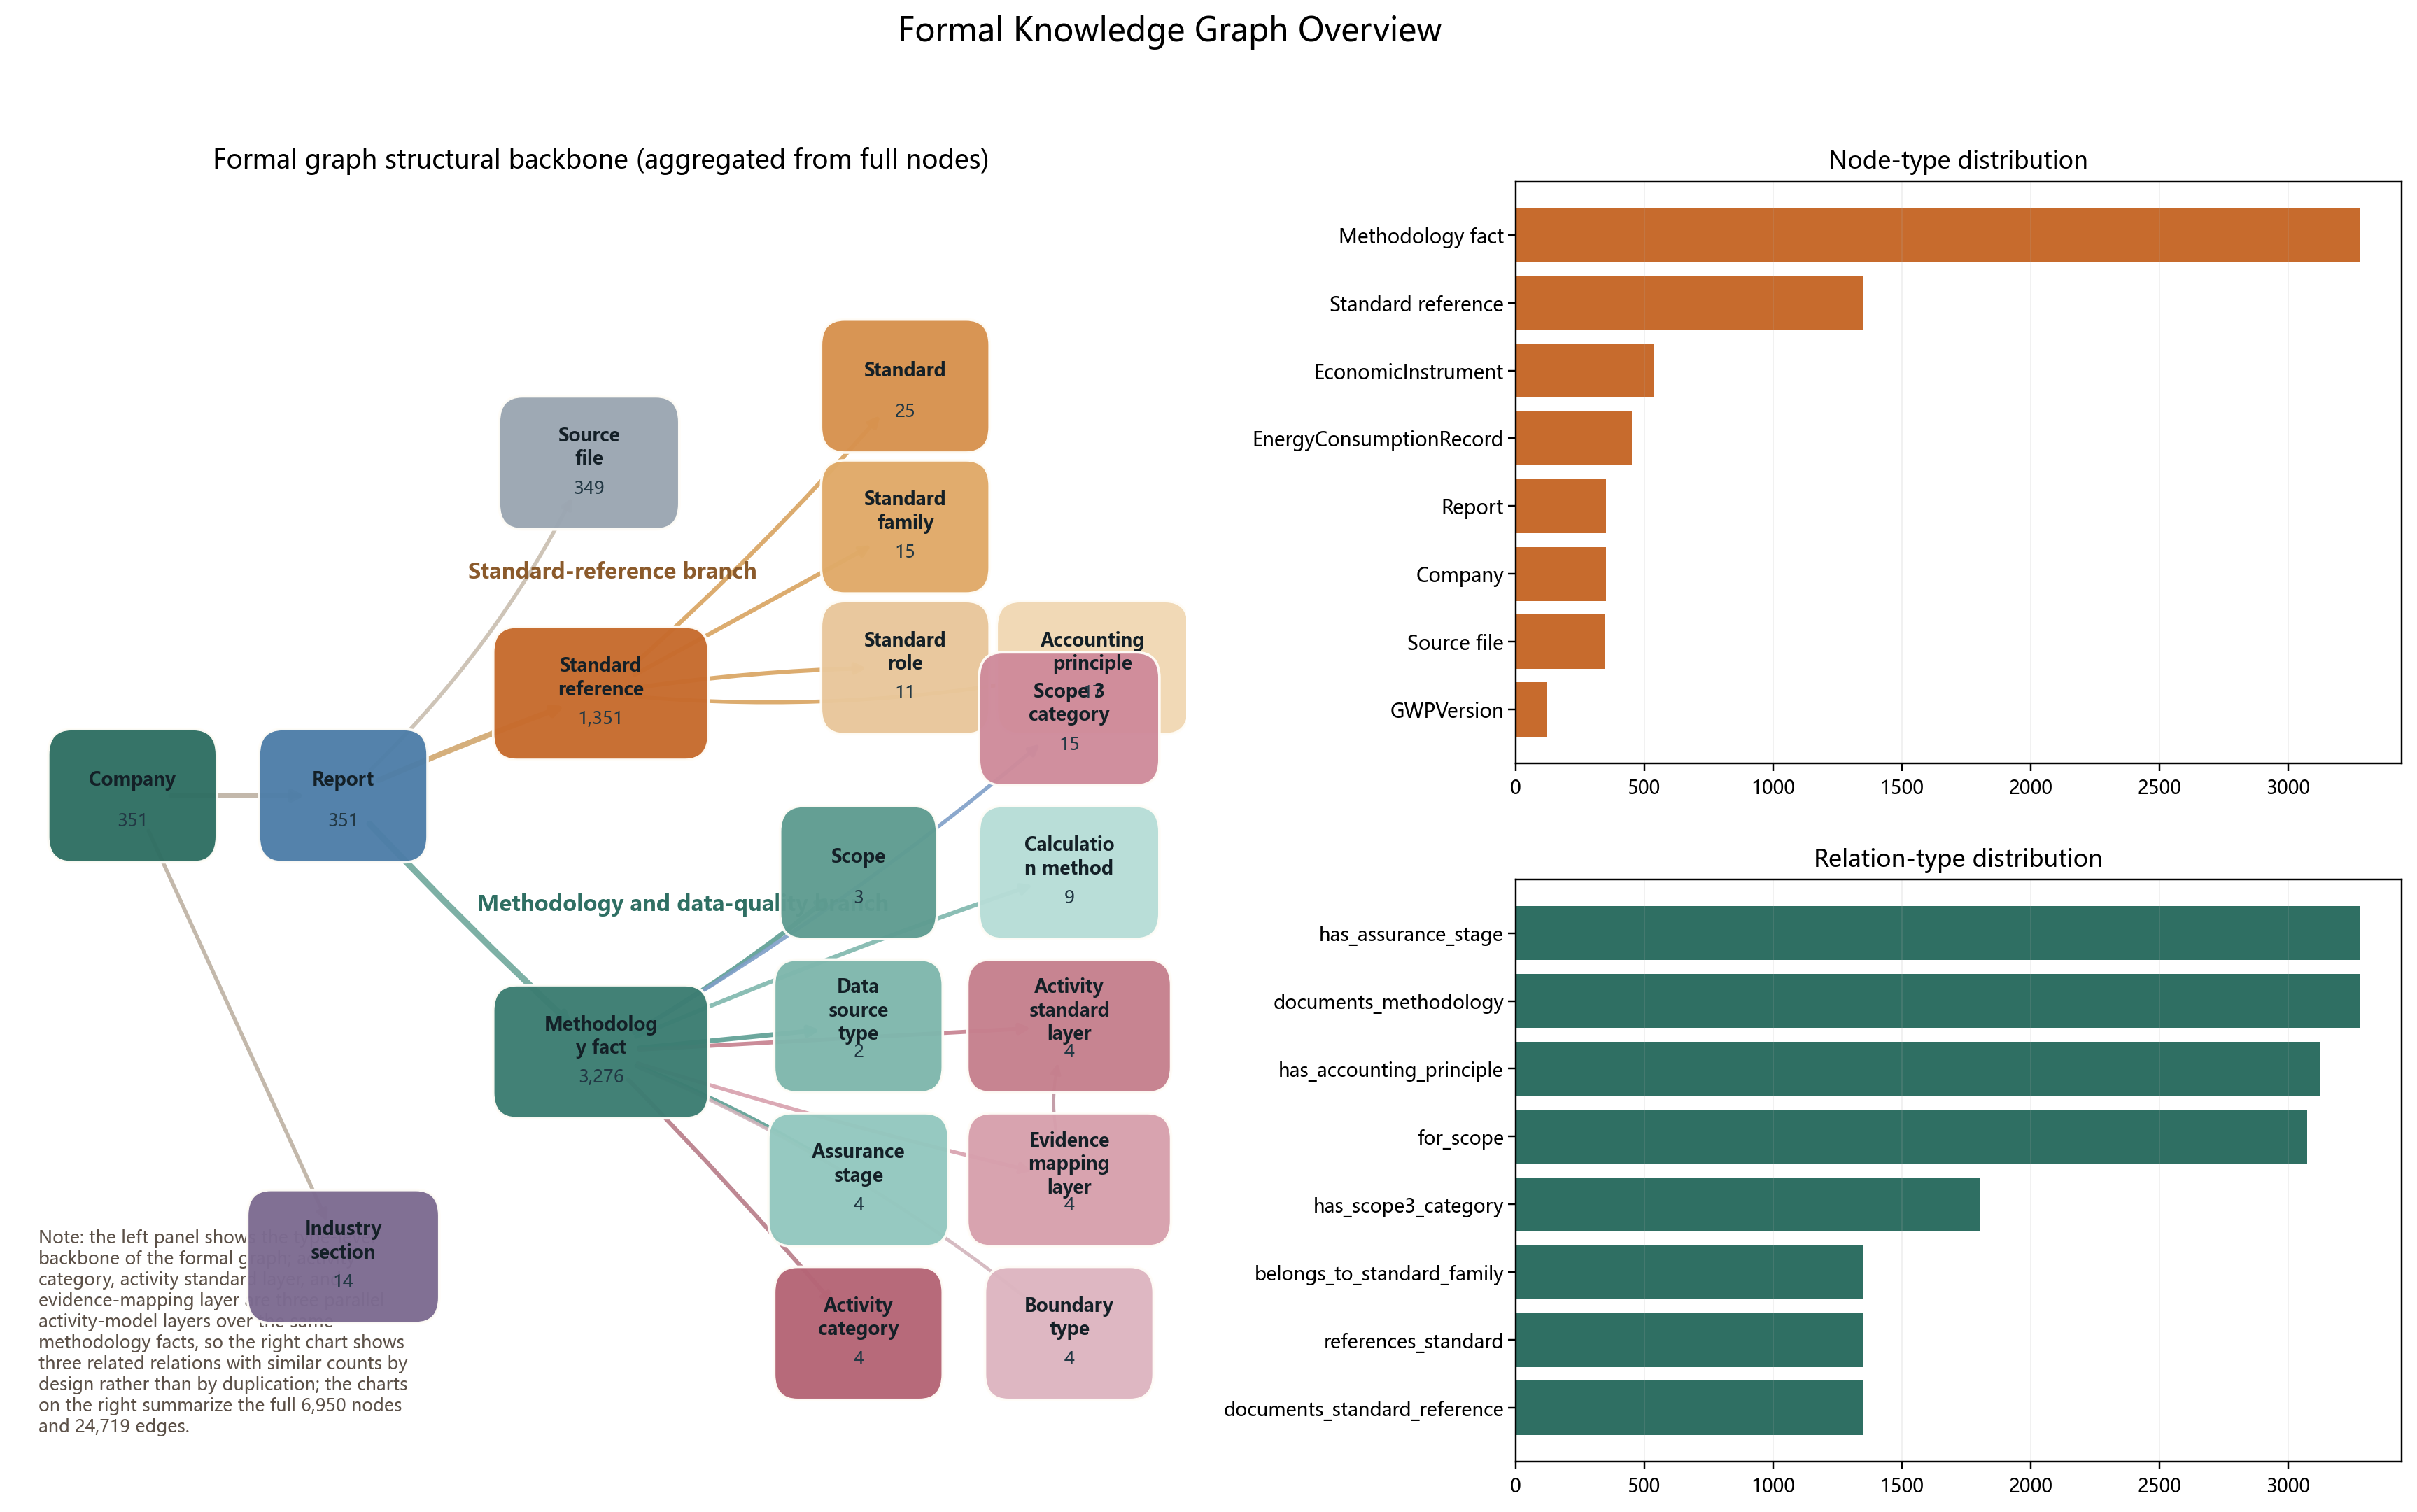
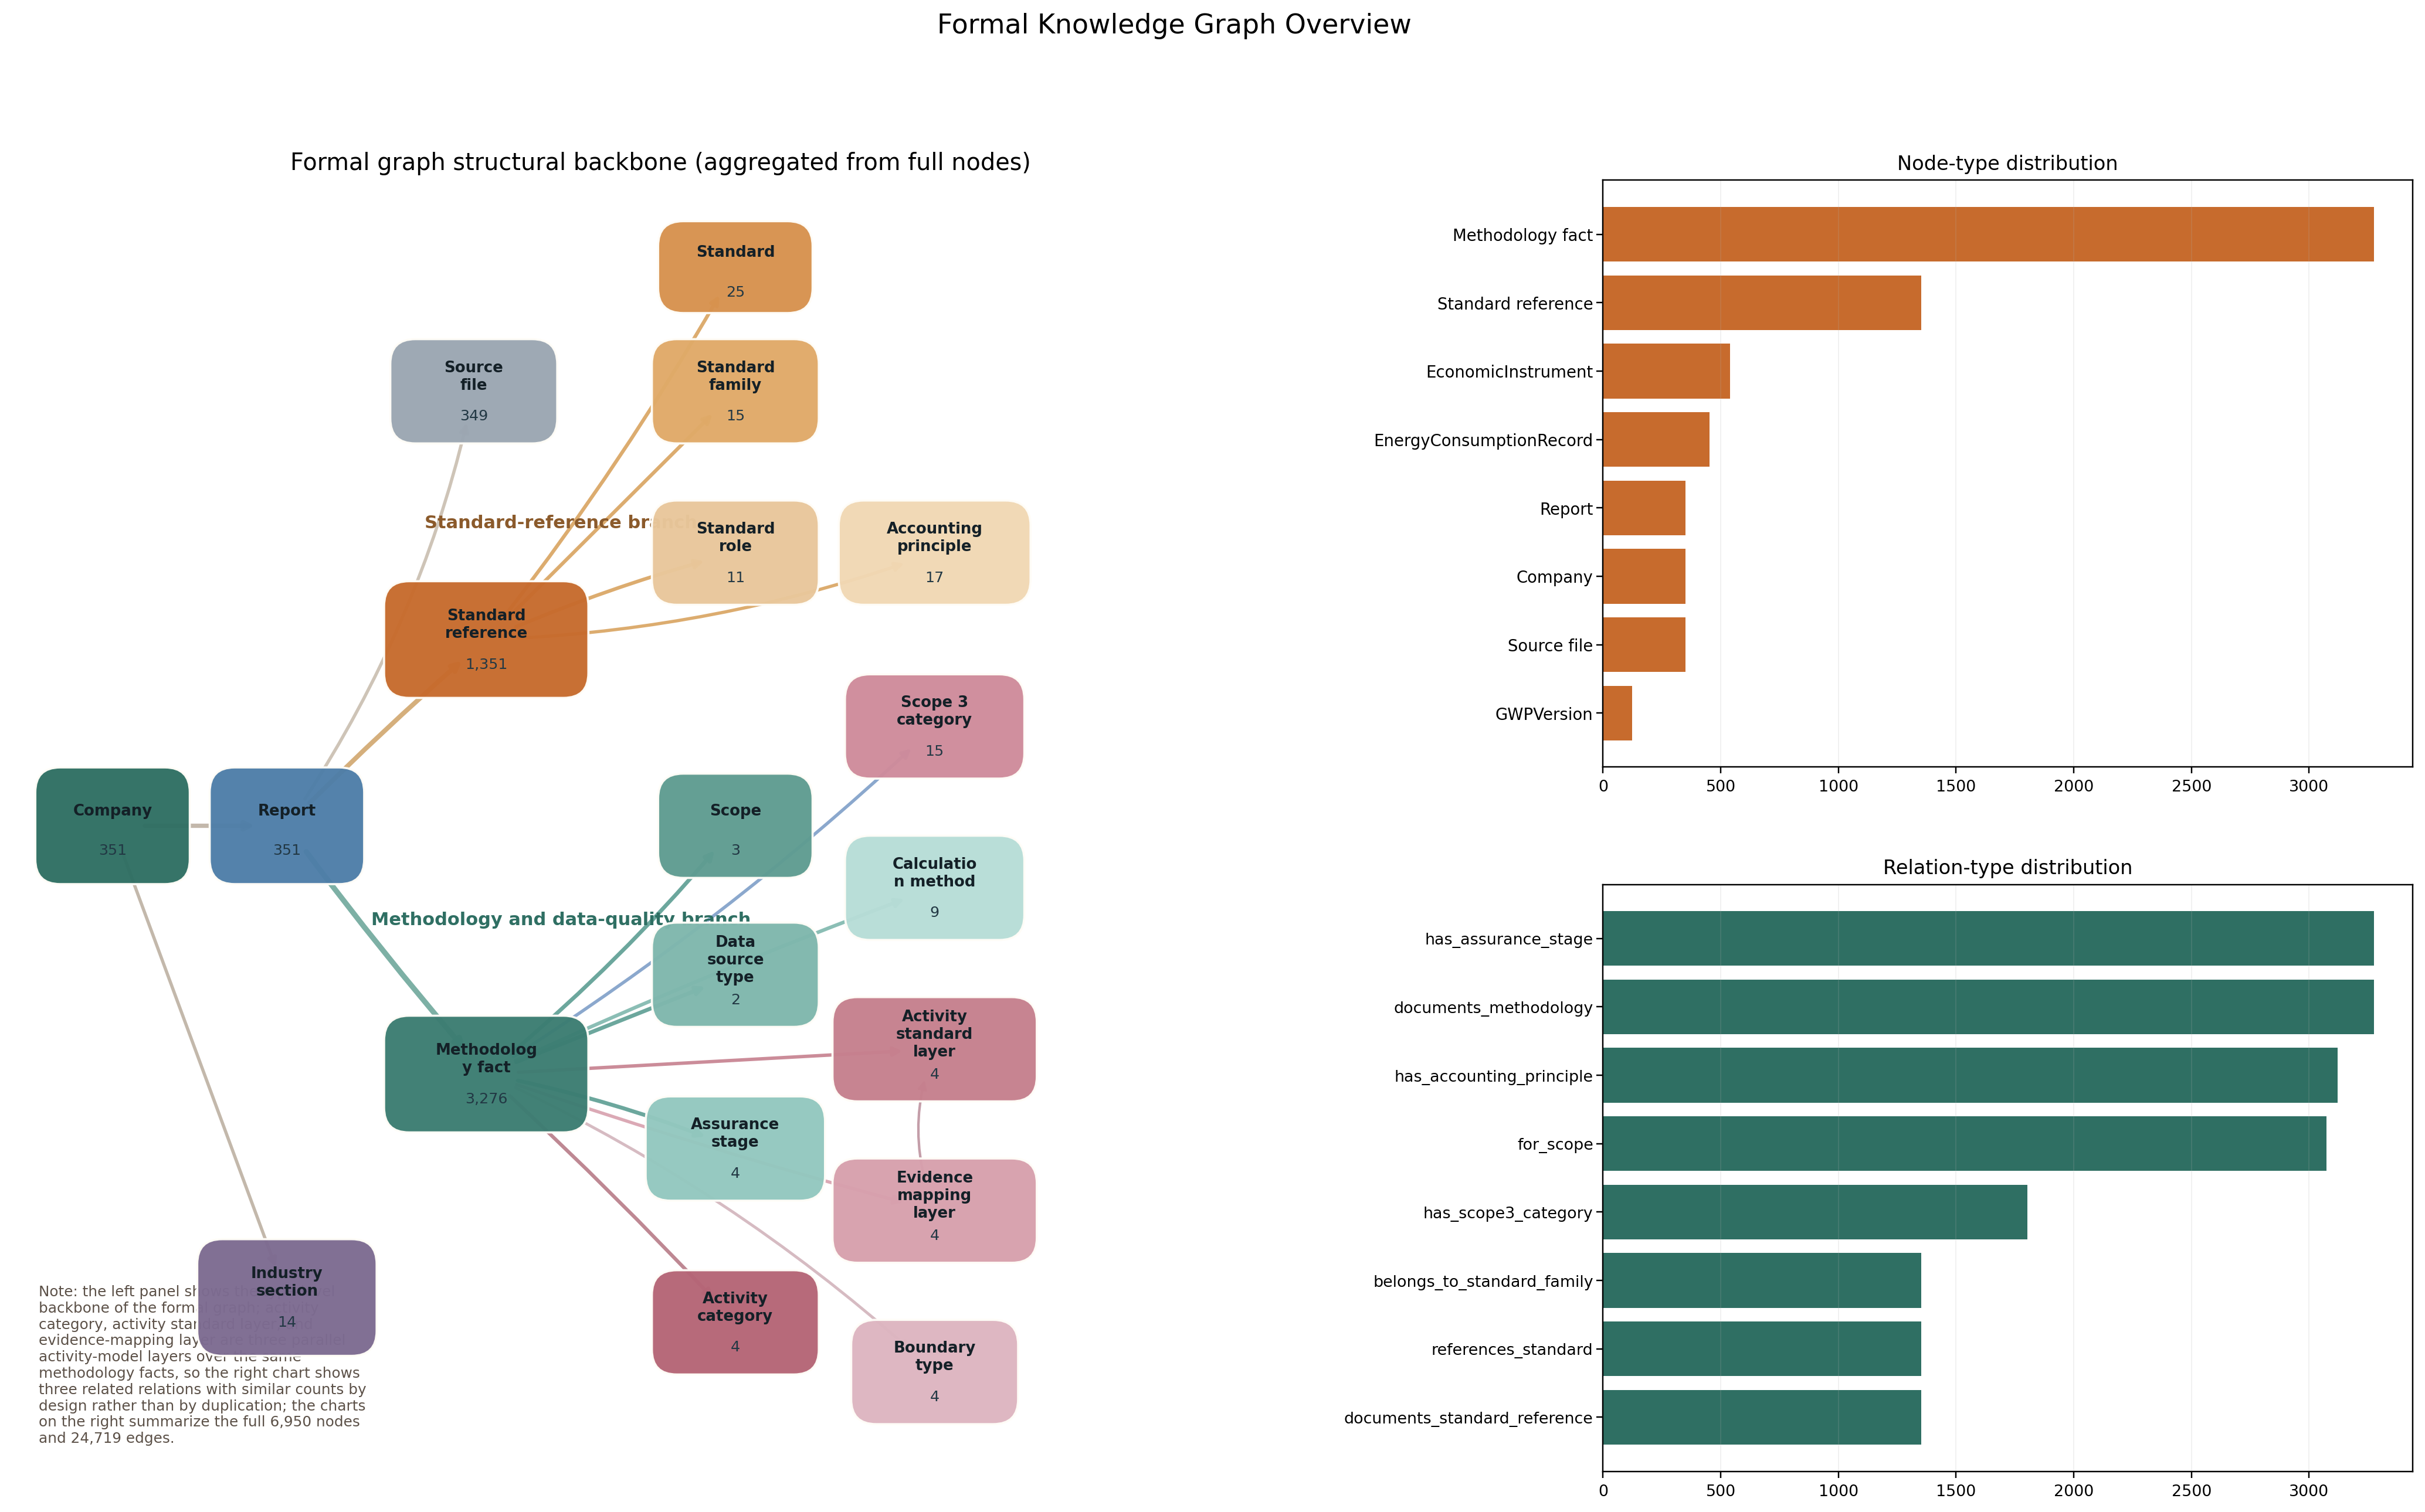
fix: 图谱节点重叠、证据回链逻辑、GB标准数、无障碍focus、第一人称

diff --git a/en/gb-system-full-graph.html b/en/gb-system-full-graph.html
@@ -19,9 +19,9 @@
             <section class="hero">
               <div class="eyebrow">Standards system</div>
               <h1>GB national standards Full-screen Entity Knowledge Graph</h1>
-              <p>This page places all 8 specific standards and 9 companies identified under GB national standards into one interactive knowledge-graph network.</p>
+              <p>This page places all 9 specific standards and 9 companies identified under GB national standards into one interactive knowledge-graph network.</p>
               <p>The page supports drag-to-pan, wheel zoom, company search, node highlighting, and evidence back-links so stakeholders can inspect exactly which companies map to which standards inside the selected system.</p>
-              <div class="metric-grid"><div class="metric"><h3>Company nodes</h3><strong>9</strong></div><div class="metric"><h3>Specific standards</h3><strong>8</strong></div><div class="metric"><h3>Standard facts</h3><strong>13</strong></div><div class="metric"><h3>Roles / principles</h3><strong>2 / 1</strong></div></div>
+              <div class="metric-grid"><div class="metric"><h3>Company nodes</h3><strong>9</strong></div><div class="metric"><h3>Specific standards</h3><strong>9</strong></div><div class="metric"><h3>Standard facts</h3><strong>13</strong></div><div class="metric"><h3>Roles / principles</h3><strong>2 / 1</strong></div></div>
             </section>
             <section class="section">
               <div class="graph-page-layout">
@@ -65,7 +65,7 @@
               </div>
             </section>
           </div>
-          <script type="application/json" id="world500-generic-full-graph-data">{"labels": {"search_label": "Company search", "search_placeholder": "Search by company name or World500 rank", "clear_search": "Clear search", "reset_view": "Reset view", "fit_view": "Fit graph", "graph_hint": "Interaction: drag to pan, use the mouse wheel to zoom, and click the system, any middle-layer node, or any company node to inspect details and evidence on the right.", "legend_title": "Legend", "legend_system": "System node", "legend_middle": "Specific-standard node", "legend_company": "Company node", "selection_title": "Current node details", "selection_default": "Click the system node, a middle-layer node, or any company node to inspect attributes and evidence back-links here.", "selection_type": "Node type", "selection_name": "Node name", "selection_system": "System", "selection_middle": "Current middle-layer node", "selection_rank": "World500 rank", "selection_fact_count": "Linked facts", "selection_company_count": "Linked companies", "selection_roles": "Standard roles", "selection_principles": "Accounting principles", "selection_linked_items": "Linked standards in system", "workbench_open": "Open company accounting workbench", "workbench_open_short": "Open workbench", "results_title": "Search results", "results_empty": "Search by company name or rank to list matches here; when no search is active, the panel shows the first 12 companies.", "results_count": "{total} matching companies", "results_focus": "Click any company below to focus and zoom to it in the main graph.", "system_type": "System", "middle_type": "Specific standard", "company_type": "Company", "evidence_title": "Evidence back-links", "evidence_report": "Report", "evidence_page": "Page", "evidence_confidence": "Confidence", "evidence_review": "Review", "evidence_empty": "No evidence is linked to the current node.", "report_table_title": "Filtered Company Result Table", "report_table_kicker": "Briefing-ready table", "report_table_lead": "This table keeps the most important companies, current nodes, fact counts, and basis fields under the current view so it can be captured directly into slides.", "report_table_company": "Company", "report_table_rank": "World500 rank", "report_table_middle": "Current linked node", "report_table_facts": "Linked facts", "report_table_roles": "Roles / scope", "report_table_principles": "Principles / emissions basis", "report_table_empty": "No companies are available under the current filter.", "report_table_note": "The table updates with the current middle-node selection and company search; without filters it shows the first 18 companies.", "evidence_summary_title": "Evidence Back-link Summary Card", "evidence_summary_kicker": "Evidence summary", "evidence_summary_lead": "This card summarizes the most representative evidence back-links under the current focus so the slide can show where the graph comes from and which pages support it.", "evidence_summary_focus": "Current focus", "evidence_summary_reports": "Linked reports", "evidence_summary_rows": "Evidence snippets", "evidence_summary_companies": "Companies in current view", "evidence_summary_empty": "No evidence summary is available under the current focus.", "eyebrow": "Standards system", "back_to_detail": "Back to English detail page", "metric_companies": "Company nodes", "metric_items": "Specific standards", "metric_facts": "Standard facts", "metric_rules": "Roles / principles", "selection_item_count": "Specific standards", "page_title_template": "{system} Full-screen Entity Knowledge Graph", "page_intro": "This page places all {item_total} specific standards and {company_total} companies identified under {system} into one interactive knowledge-graph network.", "page_intro_2": "The page supports drag-to-pan, wheel zoom, company search, node highlighting, and evidence back-links so stakeholders can inspect exactly which companies map to which standards inside the selected system.", "page_title": "GB national standards Full-screen Entity Knowledge Graph", "page_intro_text": "This page places all 8 specific standards and 9 companies identified under GB national standards into one interactive knowledge-graph network."}, "metricCards": [{"label": "Company nodes", "value": 9}, {"label": "Specific standards", "value": 8}, {"label": "Standard facts", "value": 13}, {"label": "Roles / principles", "value": "2 / 1"}], "system": {"key": "gb", "label": "GB national standards", "color": "#e76f51", "companyCount": 9, "itemCount": 8, "factCount": 13}, "middleNodes": [{"id": "GB/T 36001-2015", "name": "GB/T 36001-2015", "companyCount": 4, "factCount": 4, "roles": ["Guideline"], "principles": [], "companyIds": ["r035_chinarailwayengineeringgroup", "r135_chinatelecommunications", "r185_zhejianggeelyholdinggroup", "r326_sinomach"], "evidence": [{"report": "2024-中国电信集团有限公司可持续发展报告.pdf", "page": "2", "snippet": "内部收集，部分 案例引用媒体公开报道的信息。如无特别说明，所涉金额均以人民币计量。 © 参考标准 本报告主要参照国务院国有资产监督管理委员会 (简称国务院国资委) 《关于新时代中央企业高标准履行社会责任 的指导意见》、国家市场监督管理总局和国家标准化管理委员会《社会责任报告编写指南》 (GB/T 36001-2015) 、中 通信企业协会《中国信息通信行业企业社会责任管理体系》 (2016 年版) 和中国社会科学院《中国企业社会责任报告 SR) (CASS-CSR4.0) 》", "confidence": "medium", "review_status": "seed_batch_04"}, {"report": "中国机械工业集团有限公司社会责任报告 2024.pdf", "page": "3", "snippet": "| 报告时间范围 报告发布周期 2024年1月1日至2024年12月31 日， 本报告为年度报告，是中国机械工业集 部分内容超出上述范围。 团有限公司 《简称“国机集团”) 发布 的第十五份社会责任报告 ~ | | & 报告组织范围 te 报告数据来源 WES 见报告“走进国机”部分内 司机集团总部及下属企业 〈组织机构参 报告中数据均来自国机集团正式文件、 统计报告和财务报告等，并已通过公司 审核。 容)。 报告编制依据 司务院国资委《关于新时代中央企业高标准履行社会责任的", "confidence": "medium", "review_status": "seed_batch_08"}, {"report": "Geely-Holding-Group-Sustainability-Report-2024-ZH.pdf", "page": "4", "snippet": "信念，以及为全球可持续发展 目标作贡献的勃勃雄心。自 2022 年起，吉利控股集团承 诺履行以联合国公约为基础的，涵盖人权、劳工标准、环 境和反腐败领域的全球契约十项原则。 本报告涵盖2024 年 1 月 1 日至 2024 年 12 月 31 日财务年度（“报告期”）的工作。 为增强报告可比性和完整性，部分内容适当溯及以往年度或延伸至 2025 年。 本报告以简体中文和英文两种文字发布。在两种文本理解发生歧义时，请以简 体中文文本为准。 本报告参照全球可持续发展标准委员会（", "confidence": "medium", "review_status": "seed_batch_13"}, {"report": "2021中国铁路工程集团有限公司ESG报告.pdf", "page": "5", "snippet": "C. With the time span of 1st January to 31st December of 2021, this report pays due attention to how the CREC fulfilled its social responsibility before 2021. Reporting frequency yearly report References The Ten Principles promulgated by th", "confidence": "medium", "review_status": "seed_batch_01"}]}, {"id": "GB/T 2589-2020", "name": "GB/T 2589-2020", "companyCount": 3, "factCount": 3, "roles": ["Measurement standard"], "principles": ["Standardized measurement"], "companyIds": ["r037_bankofchina", "r053_pinganinsurance", "r250_contemporaryamperextechnology"], "evidence": [{"report": "2024中国平安可持续报告.pdf", "page": "171", "snippet": "张使用和差旅温室气体排放 ( 吨二和氧化碳当量 ) 68,941 68,921 37,434 范围一、二、三温室气体排放总量 ( 吨二氧化碳当量 ) 439,291 478,606 492,710 人均温室气体排放量 ( 吨二氧化碳当量/人) 1.56 1.51 1.43 天1. 本集团环境数据的边界范围为集团主要成员公司范围，不包括自营物业。集团主要成员公司范围指本集团总部以及寿险及健康险、财产保险、银行、资产管理等主要业务经营范围内的子公司、联营及合营公司。组织边界确定及", "confidence": "medium", "review_status": "seed_batch_11"}, {"report": "2024中国银行股份有限公司社会责任报告.pdf", "page": "24", "snippet": "、甲烷及氧化亚气，自身运营温室气体排放 承销境内、境外绿色债券改行规模分别位列银行间市声 了 cee syne 了 -本和四 von — _ II, 加 工 IE IS . IAF I 了 7 ~~. 7 7 二日 oR » 7 ~_ 第 、彭情“全球离库绿色债券”排行檬中资同业第一。 为汽油、柴油、天然气、液化天然气、液化石油气、燃料油、煤等化石将料任底产生的 色金融债券和 100 亿元境 接排放;范围二为外购电力和热力隐含的间接排放;范围三类别 5 包括废纸、办公垃圾及", "confidence": "medium", "review_status": "seed_batch_02"}, {"report": "宁德时代2024年ESG报告.pdf", "page": "64", "snippet": "电池生产基地排放强度 温室气体排放强度 3 吨二氧化碳当量/ 兆瓦时 9.98 5.77 4.56 电芯 吨二氧化碳当量/ 兆瓦时 8.74 5.02 4.12 封装模组 吨二氧化碳当量/ 兆瓦时 0.34 0.15 0.04 电池包 吨二氧化碳当量/ 兆瓦时 0.22 0.11 0.08 其他 吨二氧化碳当量/ 兆瓦时 0.69 0.49 0.32 温室气体排放强度同比下降比例 4 % 28.61 42.18 20.97 1 温室气体排放总量包括范围一、范围二温室气体排放。", "confidence": "medium", "review_status": "seed_batch_12"}]}, {"id": "GB/T 23331-2020", "name": "GB/T 23331-2020", "companyCount": 1, "factCount": 1, "roles": ["Guideline"], "principles": [], "companyIds": ["r179_chinamerchantsbank"], "evidence": [{"report": "2024-招商银行股份有限公司可持续发展报告.pdf", "page": "38", "snippet": "管理体系，系统推进低碳办公转型，有效减少自 身运莒对环境产生的影响。深圳总行大厦、研发中心、平湖金融创新大厦等自有办公物业通过环境管理体系 ISO 14001:2015(GB/T24001-2016)、能源管理体系1SO 50001:2018 ( GB/T 23331-2020 ) 认证。2024 年，本公司未发生突发重大环境事件，未发生因环境事件受到生态环境等有关部门重大行政处罚或追究刑事责任的情况 。 自身运营温室气体排放管理 2024 年，本公司着力构建自身运营温室气体", "confidence": "medium", "review_status": "seed_batch_05"}]}, {"id": "GB/T 24001-2016", "name": "GB/T 24001-2016", "companyCount": 1, "factCount": 1, "roles": ["Guideline"], "principles": [], "companyIds": ["r179_chinamerchantsbank"], "evidence": [{"report": "2024-招商银行股份有限公司可持续发展报告.pdf", "page": "38", "snippet": "管理体系，系统推进低碳办公转型，有效减少自 身运莒对环境产生的影响。深圳总行大厦、研发中心、平湖金融创新大厦等自有办公物业通过环境管理体系 ISO 14001:2015(GB/T24001-2016)、能源管理体系1SO 50001:2018 ( GB/T 23331-2020 ) 认证。2024 年，本公司未发生突发重大环境事件，未发生因环境事件受到生态环境等有关部门重大行政处罚或追究刑事责任的情况 。 自身运营温室气体排放管理 2024 年，本公司着力构建自身运营温室气体", "confidence": "medium", "review_status": "seed_batch_05"}]}, {"id": "GB/T 24067-2024", "name": "GB/T 24067-2024", "companyCount": 1, "factCount": 1, "roles": ["Guideline"], "principles": [], "companyIds": ["r467_tongweigroup"], "evidence": [{"report": "2024 TONGWEI GROUP ESG report.pdf", "page": "14", "snippet": "ng renew- able energy power production and consumption\". • In September 2024, MEE released the national standard GB/T 24067-2024, Greenhouse gases-Carbon footprint of products-Requirements and guidelines for quantiﬁcation. This standard suc", "confidence": "medium", "review_status": "seed_batch_10"}]}, {"id": "GB/T 32150-2015", "name": "GB/T 32150-2015", "companyCount": 1, "factCount": 1, "roles": ["Guideline"], "principles": [], "companyIds": ["r250_contemporaryamperextechnology"], "evidence": [{"report": "宁德时代2024年ESG报告.pdf", "page": "64", "snippet": "电池生产基地排放强度 温室气体排放强度 3 吨二氧化碳当量/ 兆瓦时 9.98 5.77 4.56 电芯 吨二氧化碳当量/ 兆瓦时 8.74 5.02 4.12 封装模组 吨二氧化碳当量/ 兆瓦时 0.34 0.15 0.04 电池包 吨二氧化碳当量/ 兆瓦时 0.22 0.11 0.08 其他 吨二氧化碳当量/ 兆瓦时 0.69 0.49 0.32 温室气体排放强度同比下降比例 4 % 28.61 42.18 20.97 1 温室气体排放总量包括范围一、范围二温室气体排放。", "confidence": "medium", "review_status": "seed_batch_12"}]}, {"id": "GB/T 36000-2015", "name": "GB/T 36000-2015", "companyCount": 1, "factCount": 1, "roles": ["Guideline"], "principles": [], "companyIds": ["r035_chinarailwayengineeringgroup"], "evidence": [{"report": "2021中国铁路工程集团有限公司ESG报告.pdf", "page": "5", "snippet": "C. With the time span of 1st January to 31st December of 2021, this report pays due attention to how the CREC fulfilled its social responsibility before 2021. Reporting frequency yearly report References The Ten Principles promulgated by th", "confidence": "medium", "review_status": "seed_batch_01"}]}, {"id": "GB/T 36002-2015", "name": "GB/T 36002-2015", "companyCount": 1, "factCount": 1, "roles": ["Guideline"], "principles": [], "companyIds": ["r035_chinarailwayengineeringgroup"], "evidence": [{"report": "2021中国铁路工程集团有限公司ESG报告.pdf", "page": "5", "snippet": "C. With the time span of 1st January to 31st December of 2021, this report pays due attention to how the CREC fulfilled its social responsibility before 2021. Reporting frequency yearly report References The Ten Principles promulgated by th", "confidence": "medium", "review_status": "seed_batch_01"}]}], "companies": [{"id": "r035_chinarailwayengineeringgroup", "name": "CHINA RAILWAY ENGINEERING GROUP", "rank": 35, "factCount": 3, "roles": ["Guideline"], "principles": [], "linkedItems": ["GB/T 36000-2015", "GB/T 36001-2015", "GB/T 36002-2015"], "evidenceByItem": {"GB/T 36000-2015": [{"report": "2021中国铁路工程集团有限公司ESG报告.pdf", "page": "5", "snippet": "C. With the time span of 1st January to 31st December of 2021, this report pays due attention to how the CREC fulfilled its social responsibility before 2021. Reporting frequency yearly report References The Ten Principles promulgated by th", "confidence": "medium", "review_status": "seed_batch_01"}], "GB/T 36001-2015": [{"report": "2021中国铁路工程集团有限公司ESG报告.pdf", "page": "5", "snippet": "C. With the time span of 1st January to 31st December of 2021, this report pays due attention to how the CREC fulfilled its social responsibility before 2021. Reporting frequency yearly report References The Ten Principles promulgated by th", "confidence": "medium", "review_status": "seed_batch_01"}], "GB/T 36002-2015": [{"report": "2021中国铁路工程集团有限公司ESG报告.pdf", "page": "5", "snippet": "C. With the time span of 1st January to 31st December of 2021, this report pays due attention to how the CREC fulfilled its social responsibility before 2021. Reporting frequency yearly report References The Ten Principles promulgated by th", "confidence": "medium", "review_status": "seed_batch_01"}]}, "extraFields": []}, {"id": "r037_bankofchina", "name": "BANK OF CHINA", "rank": 37, "factCount": 1, "roles": ["Measurement standard"], "principles": ["Standardized measurement"], "linkedItems": ["GB/T 2589-2020"], "evidenceByItem": {"GB/T 2589-2020": [{"report": "2024中国银行股份有限公司社会责任报告.pdf", "page": "24", "snippet": "、甲烷及氧化亚气，自身运营温室气体排放 承销境内、境外绿色债券改行规模分别位列银行间市声 了 cee syne 了 -本和四 von — _ II, 加 工 IE IS . IAF I 了 7 ~~. 7 7 二日 oR » 7 ~_ 第 、彭情“全球离库绿色债券”排行檬中资同业第一。 为汽油、柴油、天然气、液化天然气、液化石油气、燃料油、煤等化石将料任底产生的 色金融债券和 100 亿元境 接排放;范围二为外购电力和热力隐含的间接排放;范围三类别 5 包括废纸、办公垃圾及", "confidence": "medium", "review_status": "seed_batch_02"}]}, "extraFields": []}, {"id": "r053_pinganinsurance", "name": "PING AN INSURANCE", "rank": 53, "factCount": 1, "roles": ["Measurement standard"], "principles": ["Standardized measurement"], "linkedItems": ["GB/T 2589-2020"], "evidenceByItem": {"GB/T 2589-2020": [{"report": "2024中国平安可持续报告.pdf", "page": "171", "snippet": "张使用和差旅温室气体排放 ( 吨二和氧化碳当量 ) 68,941 68,921 37,434 范围一、二、三温室气体排放总量 ( 吨二氧化碳当量 ) 439,291 478,606 492,710 人均温室气体排放量 ( 吨二氧化碳当量/人) 1.56 1.51 1.43 天1. 本集团环境数据的边界范围为集团主要成员公司范围，不包括自营物业。集团主要成员公司范围指本集团总部以及寿险及健康险、财产保险、银行、资产管理等主要业务经营范围内的子公司、联营及合营公司。组织边界确定及", "confidence": "medium", "review_status": "seed_batch_11"}]}, "extraFields": []}, {"id": "r135_chinatelecommunications", "name": "CHINA TELECOMMUNICATIONS", "rank": 135, "factCount": 1, "roles": ["Guideline"], "principles": [], "linkedItems": ["GB/T 36001-2015"], "evidenceByItem": {"GB/T 36001-2015": [{"report": "2024-中国电信集团有限公司可持续发展报告.pdf", "page": "2", "snippet": "内部收集，部分 案例引用媒体公开报道的信息。如无特别说明，所涉金额均以人民币计量。 © 参考标准 本报告主要参照国务院国有资产监督管理委员会 (简称国务院国资委) 《关于新时代中央企业高标准履行社会责任 的指导意见》、国家市场监督管理总局和国家标准化管理委员会《社会责任报告编写指南》 (GB/T 36001-2015) 、中 通信企业协会《中国信息通信行业企业社会责任管理体系》 (2016 年版) 和中国社会科学院《中国企业社会责任报告 SR) (CASS-CSR4.0) 》", "confidence": "medium", "review_status": "seed_batch_04"}]}, "extraFields": []}, {"id": "r179_chinamerchantsbank", "name": "CHINA MERCHANTS BANK", "rank": 179, "factCount": 2, "roles": ["Guideline"], "principles": [], "linkedItems": ["GB/T 23331-2020", "GB/T 24001-2016"], "evidenceByItem": {"GB/T 23331-2020": [{"report": "2024-招商银行股份有限公司可持续发展报告.pdf", "page": "38", "snippet": "管理体系，系统推进低碳办公转型，有效减少自 身运莒对环境产生的影响。深圳总行大厦、研发中心、平湖金融创新大厦等自有办公物业通过环境管理体系 ISO 14001:2015(GB/T24001-2016)、能源管理体系1SO 50001:2018 ( GB/T 23331-2020 ) 认证。2024 年，本公司未发生突发重大环境事件，未发生因环境事件受到生态环境等有关部门重大行政处罚或追究刑事责任的情况 。 自身运营温室气体排放管理 2024 年，本公司着力构建自身运营温室气体", "confidence": "medium", "review_status": "seed_batch_05"}], "GB/T 24001-2016": [{"report": "2024-招商银行股份有限公司可持续发展报告.pdf", "page": "38", "snippet": "管理体系，系统推进低碳办公转型，有效减少自 身运莒对环境产生的影响。深圳总行大厦、研发中心、平湖金融创新大厦等自有办公物业通过环境管理体系 ISO 14001:2015(GB/T24001-2016)、能源管理体系1SO 50001:2018 ( GB/T 23331-2020 ) 认证。2024 年，本公司未发生突发重大环境事件，未发生因环境事件受到生态环境等有关部门重大行政处罚或追究刑事责任的情况 。 自身运营温室气体排放管理 2024 年，本公司着力构建自身运营温室气体", "confidence": "medium", "review_status": "seed_batch_05"}]}, "extraFields": []}, {"id": "r185_zhejianggeelyholdinggroup", "name": "ZHEJIANG GEELY HOLDING GROUP", "rank": 185, "factCount": 1, "roles": ["Guideline"], "principles": [], "linkedItems": ["GB/T 36001-2015"], "evidenceByItem": {"GB/T 36001-2015": [{"report": "Geely-Holding-Group-Sustainability-Report-2024-ZH.pdf", "page": "4", "snippet": "信念，以及为全球可持续发展 目标作贡献的勃勃雄心。自 2022 年起，吉利控股集团承 诺履行以联合国公约为基础的，涵盖人权、劳工标准、环 境和反腐败领域的全球契约十项原则。 本报告涵盖2024 年 1 月 1 日至 2024 年 12 月 31 日财务年度（“报告期”）的工作。 为增强报告可比性和完整性，部分内容适当溯及以往年度或延伸至 2025 年。 本报告以简体中文和英文两种文字发布。在两种文本理解发生歧义时，请以简 体中文文本为准。 本报告参照全球可持续发展标准委员会（", "confidence": "medium", "review_status": "seed_batch_13"}]}, "extraFields": []}, {"id": "r250_contemporaryamperextechnology", "name": "CONTEMPORARY AMPEREX TECHNOLOGY", "rank": 250, "factCount": 2, "roles": ["Guideline", "Measurement standard"], "principles": ["Standardized measurement"], "linkedItems": ["GB/T 2589-2020", "GB/T 32150-2015"], "evidenceByItem": {"GB/T 2589-2020": [{"report": "宁德时代2024年ESG报告.pdf", "page": "64", "snippet": "电池生产基地排放强度 温室气体排放强度 3 吨二氧化碳当量/ 兆瓦时 9.98 5.77 4.56 电芯 吨二氧化碳当量/ 兆瓦时 8.74 5.02 4.12 封装模组 吨二氧化碳当量/ 兆瓦时 0.34 0.15 0.04 电池包 吨二氧化碳当量/ 兆瓦时 0.22 0.11 0.08 其他 吨二氧化碳当量/ 兆瓦时 0.69 0.49 0.32 温室气体排放强度同比下降比例 4 % 28.61 42.18 20.97 1 温室气体排放总量包括范围一、范围二温室气体排放。", "confidence": "medium", "review_status": "seed_batch_12"}], "GB/T 32150-2015": [{"report": "宁德时代2024年ESG报告.pdf", "page": "64", "snippet": "电池生产基地排放强度 温室气体排放强度 3 吨二氧化碳当量/ 兆瓦时 9.98 5.77 4.56 电芯 吨二氧化碳当量/ 兆瓦时 8.74 5.02 4.12 封装模组 吨二氧化碳当量/ 兆瓦时 0.34 0.15 0.04 电池包 吨二氧化碳当量/ 兆瓦时 0.22 0.11 0.08 其他 吨二氧化碳当量/ 兆瓦时 0.69 0.49 0.32 温室气体排放强度同比下降比例 4 % 28.61 42.18 20.97 1 温室气体排放总量包括范围一、范围二温室气体排放。", "confidence": "medium", "review_status": "seed_batch_12"}]}, "extraFields": []}, {"id": "r326_sinomach", "name": "SINOMACH", "rank": 326, "factCount": 1, "roles": ["Guideline"], "principles": [], "linkedItems": ["GB/T 36001-2015"], "evidenceByItem": {"GB/T 36001-2015": [{"report": "中国机械工业集团有限公司社会责任报告 2024.pdf", "page": "3", "snippet": "| 报告时间范围 报告发布周期 2024年1月1日至2024年12月31 日， 本报告为年度报告，是中国机械工业集 部分内容超出上述范围。 团有限公司 《简称“国机集团”) 发布 的第十五份社会责任报告 ~ | | & 报告组织范围 te 报告数据来源 WES 见报告“走进国机”部分内 司机集团总部及下属企业 〈组织机构参 报告中数据均来自国机集团正式文件、 统计报告和财务报告等，并已通过公司 审核。 容)。 报告编制依据 司务院国资委《关于新时代中央企业高标准履行社会责任的", "confidence": "medium", "review_status": "seed_batch_08"}]}, "extraFields": []}, {"id": "r467_tongweigroup", "name": "TONGWEI GROUP", "rank": 467, "factCount": 1, "roles": ["Guideline"], "principles": [], "linkedItems": ["GB/T 24067-2024"], "evidenceByItem": {"GB/T 24067-2024": [{"report": "2024 TONGWEI GROUP ESG report.pdf", "page": "14", "snippet": "ng renew- able energy power production and consumption\". • In September 2024, MEE released the national standard GB/T 24067-2024, Greenhouse gases-Carbon footprint of products-Requirements and guidelines for quantiﬁcation. This standard suc", "confidence": "medium", "review_status": "seed_batch_10"}]}, "extraFields": []}], "initialMiddleId": "GB/T 36001-2015"}</script>
+          <script type="application/json" id="world500-generic-full-graph-data">{"labels": {"search_label": "Company search", "search_placeholder": "Search by company name or World500 rank", "clear_search": "Clear search", "reset_view": "Reset view", "fit_view": "Fit graph", "graph_hint": "Interaction: drag to pan, use the mouse wheel to zoom, and click the system, any middle-layer node, or any company node to inspect details and evidence on the right.", "legend_title": "Legend", "legend_system": "System node", "legend_middle": "Specific-standard node", "legend_company": "Company node", "selection_title": "Current node details", "selection_default": "Click the system node, a middle-layer node, or any company node to inspect attributes and evidence back-links here.", "selection_type": "Node type", "selection_name": "Node name", "selection_system": "System", "selection_middle": "Current middle-layer node", "selection_rank": "World500 rank", "selection_fact_count": "Linked facts", "selection_company_count": "Linked companies", "selection_roles": "Standard roles", "selection_principles": "Accounting principles", "selection_linked_items": "Linked standards in system", "workbench_open": "Open company accounting workbench", "workbench_open_short": "Open workbench", "results_title": "Search results", "results_empty": "Search by company name or rank to list matches here; when no search is active, the panel shows the first 12 companies.", "results_count": "{total} matching companies", "results_focus": "Click any company below to focus and zoom to it in the main graph.", "system_type": "System", "middle_type": "Specific standard", "company_type": "Company", "evidence_title": "Evidence back-links", "evidence_report": "Report", "evidence_page": "Page", "evidence_confidence": "Confidence", "evidence_review": "Review", "evidence_empty": "No evidence is linked to the current node.", "report_table_title": "Filtered Company Result Table", "report_table_kicker": "Briefing-ready table", "report_table_lead": "This table keeps the most important companies, current nodes, fact counts, and basis fields under the current view so it can be captured directly into slides.", "report_table_company": "Company", "report_table_rank": "World500 rank", "report_table_middle": "Current linked node", "report_table_facts": "Linked facts", "report_table_roles": "Roles / scope", "report_table_principles": "Principles / emissions basis", "report_table_empty": "No companies are available under the current filter.", "report_table_note": "The table updates with the current middle-node selection and company search; without filters it shows the first 18 companies.", "evidence_summary_title": "Evidence Back-link Summary Card", "evidence_summary_kicker": "Evidence summary", "evidence_summary_lead": "This card summarizes the most representative evidence back-links under the current focus so the slide can show where the graph comes from and which pages support it.", "evidence_summary_focus": "Current focus", "evidence_summary_reports": "Linked reports", "evidence_summary_rows": "Evidence snippets", "evidence_summary_companies": "Companies in current view", "evidence_summary_empty": "No evidence summary is available under the current focus.", "eyebrow": "Standards system", "back_to_detail": "Back to English detail page", "metric_companies": "Company nodes", "metric_items": "Specific standards", "metric_facts": "Standard facts", "metric_rules": "Roles / principles", "selection_item_count": "Specific standards", "page_title_template": "{system} Full-screen Entity Knowledge Graph", "page_intro": "This page places all {item_total} specific standards and {company_total} companies identified under {system} into one interactive knowledge-graph network.", "page_intro_2": "The page supports drag-to-pan, wheel zoom, company search, node highlighting, and evidence back-links so stakeholders can inspect exactly which companies map to which standards inside the selected system.", "page_title": "GB national standards Full-screen Entity Knowledge Graph", "page_intro_text": "This page places all 9 specific standards and 9 companies identified under GB national standards into one interactive knowledge-graph network."}, "metricCards": [{"label": "Company nodes", "value": 9}, {"label": "Specific standards", "value": 8}, {"label": "Standard facts", "value": 13}, {"label": "Roles / principles", "value": "2 / 1"}], "system": {"key": "gb", "label": "GB national standards", "color": "#e76f51", "companyCount": 9, "itemCount": 8, "factCount": 13}, "middleNodes": [{"id": "GB/T 36001-2015", "name": "GB/T 36001-2015", "companyCount": 4, "factCount": 4, "roles": ["Guideline"], "principles": [], "companyIds": ["r035_chinarailwayengineeringgroup", "r135_chinatelecommunications", "r185_zhejianggeelyholdinggroup", "r326_sinomach"], "evidence": [{"report": "2024-中国电信集团有限公司可持续发展报告.pdf", "page": "2", "snippet": "内部收集，部分 案例引用媒体公开报道的信息。如无特别说明，所涉金额均以人民币计量。 © 参考标准 本报告主要参照国务院国有资产监督管理委员会 (简称国务院国资委) 《关于新时代中央企业高标准履行社会责任 的指导意见》、国家市场监督管理总局和国家标准化管理委员会《社会责任报告编写指南》 (GB/T 36001-2015) 、中 通信企业协会《中国信息通信行业企业社会责任管理体系》 (2016 年版) 和中国社会科学院《中国企业社会责任报告 SR) (CASS-CSR4.0) 》", "confidence": "medium", "review_status": "seed_batch_04"}, {"report": "中国机械工业集团有限公司社会责任报告 2024.pdf", "page": "3", "snippet": "| 报告时间范围 报告发布周期 2024年1月1日至2024年12月31 日， 本报告为年度报告，是中国机械工业集 部分内容超出上述范围。 团有限公司 《简称“国机集团”) 发布 的第十五份社会责任报告 ~ | | & 报告组织范围 te 报告数据来源 WES 见报告“走进国机”部分内 司机集团总部及下属企业 〈组织机构参 报告中数据均来自国机集团正式文件、 统计报告和财务报告等，并已通过公司 审核。 容)。 报告编制依据 司务院国资委《关于新时代中央企业高标准履行社会责任的", "confidence": "medium", "review_status": "seed_batch_08"}, {"report": "Geely-Holding-Group-Sustainability-Report-2024-ZH.pdf", "page": "4", "snippet": "信念，以及为全球可持续发展 目标作贡献的勃勃雄心。自 2022 年起，吉利控股集团承 诺履行以联合国公约为基础的，涵盖人权、劳工标准、环 境和反腐败领域的全球契约十项原则。 本报告涵盖2024 年 1 月 1 日至 2024 年 12 月 31 日财务年度（“报告期”）的工作。 为增强报告可比性和完整性，部分内容适当溯及以往年度或延伸至 2025 年。 本报告以简体中文和英文两种文字发布。在两种文本理解发生歧义时，请以简 体中文文本为准。 本报告参照全球可持续发展标准委员会（", "confidence": "medium", "review_status": "seed_batch_13"}, {"report": "2021中国铁路工程集团有限公司ESG报告.pdf", "page": "5", "snippet": "C. With the time span of 1st January to 31st December of 2021, this report pays due attention to how the CREC fulfilled its social responsibility before 2021. Reporting frequency yearly report References The Ten Principles promulgated by th", "confidence": "medium", "review_status": "seed_batch_01"}]}, {"id": "GB/T 2589-2020", "name": "GB/T 2589-2020", "companyCount": 3, "factCount": 3, "roles": ["Measurement standard"], "principles": ["Standardized measurement"], "companyIds": ["r037_bankofchina", "r053_pinganinsurance", "r250_contemporaryamperextechnology"], "evidence": [{"report": "2024中国平安可持续报告.pdf", "page": "171", "snippet": "张使用和差旅温室气体排放 ( 吨二和氧化碳当量 ) 68,941 68,921 37,434 范围一、二、三温室气体排放总量 ( 吨二氧化碳当量 ) 439,291 478,606 492,710 人均温室气体排放量 ( 吨二氧化碳当量/人) 1.56 1.51 1.43 天1. 本集团环境数据的边界范围为集团主要成员公司范围，不包括自营物业。集团主要成员公司范围指本集团总部以及寿险及健康险、财产保险、银行、资产管理等主要业务经营范围内的子公司、联营及合营公司。组织边界确定及", "confidence": "medium", "review_status": "seed_batch_11"}, {"report": "2024中国银行股份有限公司社会责任报告.pdf", "page": "24", "snippet": "、甲烷及氧化亚气，自身运营温室气体排放 承销境内、境外绿色债券改行规模分别位列银行间市声 了 cee syne 了 -本和四 von — _ II, 加 工 IE IS . IAF I 了 7 ~~. 7 7 二日 oR » 7 ~_ 第 、彭情“全球离库绿色债券”排行檬中资同业第一。 为汽油、柴油、天然气、液化天然气、液化石油气、燃料油、煤等化石将料任底产生的 色金融债券和 100 亿元境 接排放;范围二为外购电力和热力隐含的间接排放;范围三类别 5 包括废纸、办公垃圾及", "confidence": "medium", "review_status": "seed_batch_02"}, {"report": "宁德时代2024年ESG报告.pdf", "page": "64", "snippet": "电池生产基地排放强度 温室气体排放强度 3 吨二氧化碳当量/ 兆瓦时 9.98 5.77 4.56 电芯 吨二氧化碳当量/ 兆瓦时 8.74 5.02 4.12 封装模组 吨二氧化碳当量/ 兆瓦时 0.34 0.15 0.04 电池包 吨二氧化碳当量/ 兆瓦时 0.22 0.11 0.08 其他 吨二氧化碳当量/ 兆瓦时 0.69 0.49 0.32 温室气体排放强度同比下降比例 4 % 28.61 42.18 20.97 1 温室气体排放总量包括范围一、范围二温室气体排放。", "confidence": "medium", "review_status": "seed_batch_12"}]}, {"id": "GB/T 23331-2020", "name": "GB/T 23331-2020", "companyCount": 1, "factCount": 1, "roles": ["Guideline"], "principles": [], "companyIds": ["r179_chinamerchantsbank"], "evidence": [{"report": "2024-招商银行股份有限公司可持续发展报告.pdf", "page": "38", "snippet": "管理体系，系统推进低碳办公转型，有效减少自 身运莒对环境产生的影响。深圳总行大厦、研发中心、平湖金融创新大厦等自有办公物业通过环境管理体系 ISO 14001:2015(GB/T24001-2016)、能源管理体系1SO 50001:2018 ( GB/T 23331-2020 ) 认证。2024 年，本公司未发生突发重大环境事件，未发生因环境事件受到生态环境等有关部门重大行政处罚或追究刑事责任的情况 。 自身运营温室气体排放管理 2024 年，本公司着力构建自身运营温室气体", "confidence": "medium", "review_status": "seed_batch_05"}]}, {"id": "GB/T 24001-2016", "name": "GB/T 24001-2016", "companyCount": 1, "factCount": 1, "roles": ["Guideline"], "principles": [], "companyIds": ["r179_chinamerchantsbank"], "evidence": [{"report": "2024-招商银行股份有限公司可持续发展报告.pdf", "page": "38", "snippet": "管理体系，系统推进低碳办公转型，有效减少自 身运莒对环境产生的影响。深圳总行大厦、研发中心、平湖金融创新大厦等自有办公物业通过环境管理体系 ISO 14001:2015(GB/T24001-2016)、能源管理体系1SO 50001:2018 ( GB/T 23331-2020 ) 认证。2024 年，本公司未发生突发重大环境事件，未发生因环境事件受到生态环境等有关部门重大行政处罚或追究刑事责任的情况 。 自身运营温室气体排放管理 2024 年，本公司着力构建自身运营温室气体", "confidence": "medium", "review_status": "seed_batch_05"}]}, {"id": "GB/T 24067-2024", "name": "GB/T 24067-2024", "companyCount": 1, "factCount": 1, "roles": ["Guideline"], "principles": [], "companyIds": ["r467_tongweigroup"], "evidence": [{"report": "2024 TONGWEI GROUP ESG report.pdf", "page": "14", "snippet": "ng renew- able energy power production and consumption\". • In September 2024, MEE released the national standard GB/T 24067-2024, Greenhouse gases-Carbon footprint of products-Requirements and guidelines for quantiﬁcation. This standard suc", "confidence": "medium", "review_status": "seed_batch_10"}]}, {"id": "GB/T 32150-2015", "name": "GB/T 32150-2015", "companyCount": 1, "factCount": 1, "roles": ["Guideline"], "principles": [], "companyIds": ["r250_contemporaryamperextechnology"], "evidence": [{"report": "宁德时代2024年ESG报告.pdf", "page": "64", "snippet": "电池生产基地排放强度 温室气体排放强度 3 吨二氧化碳当量/ 兆瓦时 9.98 5.77 4.56 电芯 吨二氧化碳当量/ 兆瓦时 8.74 5.02 4.12 封装模组 吨二氧化碳当量/ 兆瓦时 0.34 0.15 0.04 电池包 吨二氧化碳当量/ 兆瓦时 0.22 0.11 0.08 其他 吨二氧化碳当量/ 兆瓦时 0.69 0.49 0.32 温室气体排放强度同比下降比例 4 % 28.61 42.18 20.97 1 温室气体排放总量包括范围一、范围二温室气体排放。", "confidence": "medium", "review_status": "seed_batch_12"}]}, {"id": "GB/T 36000-2015", "name": "GB/T 36000-2015", "companyCount": 1, "factCount": 1, "roles": ["Guideline"], "principles": [], "companyIds": ["r035_chinarailwayengineeringgroup"], "evidence": [{"report": "2021中国铁路工程集团有限公司ESG报告.pdf", "page": "5", "snippet": "C. With the time span of 1st January to 31st December of 2021, this report pays due attention to how the CREC fulfilled its social responsibility before 2021. Reporting frequency yearly report References The Ten Principles promulgated by th", "confidence": "medium", "review_status": "seed_batch_01"}]}, {"id": "GB/T 36002-2015", "name": "GB/T 36002-2015", "companyCount": 1, "factCount": 1, "roles": ["Guideline"], "principles": [], "companyIds": ["r035_chinarailwayengineeringgroup"], "evidence": [{"report": "2021中国铁路工程集团有限公司ESG报告.pdf", "page": "5", "snippet": "C. With the time span of 1st January to 31st December of 2021, this report pays due attention to how the CREC fulfilled its social responsibility before 2021. Reporting frequency yearly report References The Ten Principles promulgated by th", "confidence": "medium", "review_status": "seed_batch_01"}]}], "companies": [{"id": "r035_chinarailwayengineeringgroup", "name": "CHINA RAILWAY ENGINEERING GROUP", "rank": 35, "factCount": 3, "roles": ["Guideline"], "principles": [], "linkedItems": ["GB/T 36000-2015", "GB/T 36001-2015", "GB/T 36002-2015"], "evidenceByItem": {"GB/T 36000-2015": [{"report": "2021中国铁路工程集团有限公司ESG报告.pdf", "page": "5", "snippet": "C. With the time span of 1st January to 31st December of 2021, this report pays due attention to how the CREC fulfilled its social responsibility before 2021. Reporting frequency yearly report References The Ten Principles promulgated by th", "confidence": "medium", "review_status": "seed_batch_01"}], "GB/T 36001-2015": [{"report": "2021中国铁路工程集团有限公司ESG报告.pdf", "page": "5", "snippet": "C. With the time span of 1st January to 31st December of 2021, this report pays due attention to how the CREC fulfilled its social responsibility before 2021. Reporting frequency yearly report References The Ten Principles promulgated by th", "confidence": "medium", "review_status": "seed_batch_01"}], "GB/T 36002-2015": [{"report": "2021中国铁路工程集团有限公司ESG报告.pdf", "page": "5", "snippet": "C. With the time span of 1st January to 31st December of 2021, this report pays due attention to how the CREC fulfilled its social responsibility before 2021. Reporting frequency yearly report References The Ten Principles promulgated by th", "confidence": "medium", "review_status": "seed_batch_01"}]}, "extraFields": []}, {"id": "r037_bankofchina", "name": "BANK OF CHINA", "rank": 37, "factCount": 1, "roles": ["Measurement standard"], "principles": ["Standardized measurement"], "linkedItems": ["GB/T 2589-2020"], "evidenceByItem": {"GB/T 2589-2020": [{"report": "2024中国银行股份有限公司社会责任报告.pdf", "page": "24", "snippet": "、甲烷及氧化亚气，自身运营温室气体排放 承销境内、境外绿色债券改行规模分别位列银行间市声 了 cee syne 了 -本和四 von — _ II, 加 工 IE IS . IAF I 了 7 ~~. 7 7 二日 oR » 7 ~_ 第 、彭情“全球离库绿色债券”排行檬中资同业第一。 为汽油、柴油、天然气、液化天然气、液化石油气、燃料油、煤等化石将料任底产生的 色金融债券和 100 亿元境 接排放;范围二为外购电力和热力隐含的间接排放;范围三类别 5 包括废纸、办公垃圾及", "confidence": "medium", "review_status": "seed_batch_02"}]}, "extraFields": []}, {"id": "r053_pinganinsurance", "name": "PING AN INSURANCE", "rank": 53, "factCount": 1, "roles": ["Measurement standard"], "principles": ["Standardized measurement"], "linkedItems": ["GB/T 2589-2020"], "evidenceByItem": {"GB/T 2589-2020": [{"report": "2024中国平安可持续报告.pdf", "page": "171", "snippet": "张使用和差旅温室气体排放 ( 吨二和氧化碳当量 ) 68,941 68,921 37,434 范围一、二、三温室气体排放总量 ( 吨二氧化碳当量 ) 439,291 478,606 492,710 人均温室气体排放量 ( 吨二氧化碳当量/人) 1.56 1.51 1.43 天1. 本集团环境数据的边界范围为集团主要成员公司范围，不包括自营物业。集团主要成员公司范围指本集团总部以及寿险及健康险、财产保险、银行、资产管理等主要业务经营范围内的子公司、联营及合营公司。组织边界确定及", "confidence": "medium", "review_status": "seed_batch_11"}]}, "extraFields": []}, {"id": "r135_chinatelecommunications", "name": "CHINA TELECOMMUNICATIONS", "rank": 135, "factCount": 1, "roles": ["Guideline"], "principles": [], "linkedItems": ["GB/T 36001-2015"], "evidenceByItem": {"GB/T 36001-2015": [{"report": "2024-中国电信集团有限公司可持续发展报告.pdf", "page": "2", "snippet": "内部收集，部分 案例引用媒体公开报道的信息。如无特别说明，所涉金额均以人民币计量。 © 参考标准 本报告主要参照国务院国有资产监督管理委员会 (简称国务院国资委) 《关于新时代中央企业高标准履行社会责任 的指导意见》、国家市场监督管理总局和国家标准化管理委员会《社会责任报告编写指南》 (GB/T 36001-2015) 、中 通信企业协会《中国信息通信行业企业社会责任管理体系》 (2016 年版) 和中国社会科学院《中国企业社会责任报告 SR) (CASS-CSR4.0) 》", "confidence": "medium", "review_status": "seed_batch_04"}]}, "extraFields": []}, {"id": "r179_chinamerchantsbank", "name": "CHINA MERCHANTS BANK", "rank": 179, "factCount": 2, "roles": ["Guideline"], "principles": [], "linkedItems": ["GB/T 23331-2020", "GB/T 24001-2016"], "evidenceByItem": {"GB/T 23331-2020": [{"report": "2024-招商银行股份有限公司可持续发展报告.pdf", "page": "38", "snippet": "管理体系，系统推进低碳办公转型，有效减少自 身运莒对环境产生的影响。深圳总行大厦、研发中心、平湖金融创新大厦等自有办公物业通过环境管理体系 ISO 14001:2015(GB/T24001-2016)、能源管理体系1SO 50001:2018 ( GB/T 23331-2020 ) 认证。2024 年，本公司未发生突发重大环境事件，未发生因环境事件受到生态环境等有关部门重大行政处罚或追究刑事责任的情况 。 自身运营温室气体排放管理 2024 年，本公司着力构建自身运营温室气体", "confidence": "medium", "review_status": "seed_batch_05"}], "GB/T 24001-2016": [{"report": "2024-招商银行股份有限公司可持续发展报告.pdf", "page": "38", "snippet": "管理体系，系统推进低碳办公转型，有效减少自 身运莒对环境产生的影响。深圳总行大厦、研发中心、平湖金融创新大厦等自有办公物业通过环境管理体系 ISO 14001:2015(GB/T24001-2016)、能源管理体系1SO 50001:2018 ( GB/T 23331-2020 ) 认证。2024 年，本公司未发生突发重大环境事件，未发生因环境事件受到生态环境等有关部门重大行政处罚或追究刑事责任的情况 。 自身运营温室气体排放管理 2024 年，本公司着力构建自身运营温室气体", "confidence": "medium", "review_status": "seed_batch_05"}]}, "extraFields": []}, {"id": "r185_zhejianggeelyholdinggroup", "name": "ZHEJIANG GEELY HOLDING GROUP", "rank": 185, "factCount": 1, "roles": ["Guideline"], "principles": [], "linkedItems": ["GB/T 36001-2015"], "evidenceByItem": {"GB/T 36001-2015": [{"report": "Geely-Holding-Group-Sustainability-Report-2024-ZH.pdf", "page": "4", "snippet": "信念，以及为全球可持续发展 目标作贡献的勃勃雄心。自 2022 年起，吉利控股集团承 诺履行以联合国公约为基础的，涵盖人权、劳工标准、环 境和反腐败领域的全球契约十项原则。 本报告涵盖2024 年 1 月 1 日至 2024 年 12 月 31 日财务年度（“报告期”）的工作。 为增强报告可比性和完整性，部分内容适当溯及以往年度或延伸至 2025 年。 本报告以简体中文和英文两种文字发布。在两种文本理解发生歧义时，请以简 体中文文本为准。 本报告参照全球可持续发展标准委员会（", "confidence": "medium", "review_status": "seed_batch_13"}]}, "extraFields": []}, {"id": "r250_contemporaryamperextechnology", "name": "CONTEMPORARY AMPEREX TECHNOLOGY", "rank": 250, "factCount": 2, "roles": ["Guideline", "Measurement standard"], "principles": ["Standardized measurement"], "linkedItems": ["GB/T 2589-2020", "GB/T 32150-2015"], "evidenceByItem": {"GB/T 2589-2020": [{"report": "宁德时代2024年ESG报告.pdf", "page": "64", "snippet": "电池生产基地排放强度 温室气体排放强度 3 吨二氧化碳当量/ 兆瓦时 9.98 5.77 4.56 电芯 吨二氧化碳当量/ 兆瓦时 8.74 5.02 4.12 封装模组 吨二氧化碳当量/ 兆瓦时 0.34 0.15 0.04 电池包 吨二氧化碳当量/ 兆瓦时 0.22 0.11 0.08 其他 吨二氧化碳当量/ 兆瓦时 0.69 0.49 0.32 温室气体排放强度同比下降比例 4 % 28.61 42.18 20.97 1 温室气体排放总量包括范围一、范围二温室气体排放。", "confidence": "medium", "review_status": "seed_batch_12"}], "GB/T 32150-2015": [{"report": "宁德时代2024年ESG报告.pdf", "page": "64", "snippet": "电池生产基地排放强度 温室气体排放强度 3 吨二氧化碳当量/ 兆瓦时 9.98 5.77 4.56 电芯 吨二氧化碳当量/ 兆瓦时 8.74 5.02 4.12 封装模组 吨二氧化碳当量/ 兆瓦时 0.34 0.15 0.04 电池包 吨二氧化碳当量/ 兆瓦时 0.22 0.11 0.08 其他 吨二氧化碳当量/ 兆瓦时 0.69 0.49 0.32 温室气体排放强度同比下降比例 4 % 28.61 42.18 20.97 1 温室气体排放总量包括范围一、范围二温室气体排放。", "confidence": "medium", "review_status": "seed_batch_12"}]}, "extraFields": []}, {"id": "r326_sinomach", "name": "SINOMACH", "rank": 326, "factCount": 1, "roles": ["Guideline"], "principles": [], "linkedItems": ["GB/T 36001-2015"], "evidenceByItem": {"GB/T 36001-2015": [{"report": "中国机械工业集团有限公司社会责任报告 2024.pdf", "page": "3", "snippet": "| 报告时间范围 报告发布周期 2024年1月1日至2024年12月31 日， 本报告为年度报告，是中国机械工业集 部分内容超出上述范围。 团有限公司 《简称“国机集团”) 发布 的第十五份社会责任报告 ~ | | & 报告组织范围 te 报告数据来源 WES 见报告“走进国机”部分内 司机集团总部及下属企业 〈组织机构参 报告中数据均来自国机集团正式文件、 统计报告和财务报告等，并已通过公司 审核。 容)。 报告编制依据 司务院国资委《关于新时代中央企业高标准履行社会责任的", "confidence": "medium", "review_status": "seed_batch_08"}]}, "extraFields": []}, {"id": "r467_tongweigroup", "name": "TONGWEI GROUP", "rank": 467, "factCount": 1, "roles": ["Guideline"], "principles": [], "linkedItems": ["GB/T 24067-2024"], "evidenceByItem": {"GB/T 24067-2024": [{"report": "2024 TONGWEI GROUP ESG report.pdf", "page": "14", "snippet": "ng renew- able energy power production and consumption\". • In September 2024, MEE released the national standard GB/T 24067-2024, Greenhouse gases-Carbon footprint of products-Requirements and guidelines for quantiﬁcation. This standard suc", "confidence": "medium", "review_status": "seed_batch_10"}]}, "extraFields": []}], "initialMiddleId": "GB/T 36001-2015"}</script>
 
 <script>
   (function () {

diff --git a/assets/css/site.css b/assets/css/site.css
@@ -259,3 +259,6 @@ radial-gradient(circle at 80% 20%,rgba(199,107,45,.05),transparent 18%),
 @media (max-width:1020px){.entity-workbench{grid-template-columns:1fr}.entity-graph-stage{grid-template-columns:1fr;min-height:unset}.entity-stage-lines{display:none}.entity-node-stat{grid-template-columns:repeat(3,minmax(0,1fr))}}
 @media (max-width:760px){.entity-nav-actions,.graph-toolbar{flex-direction:column;align-items:stretch}.entity-search,.graph-search{min-width:100%}.entity-node-stat,.entity-overview-metrics{grid-template-columns:1fr}.entity-system-tab{width:100%;justify-content:flex-start}.graph-page-shell{padding-inline:18px}.graph-canvas-wrap,.ghg-full-graph-svg{height:60vh}}
 @media (max-width:760px){.hero,.card{padding:18px}.section-head h2{font-size:24px}.report-figure-title h3{font-size:20px}}
+:focus-visible{outline:3px solid var(--accent2);outline-offset:2px;border-radius:4px}
+button:focus-visible,.pill:focus-visible,.btn:focus-visible,a:focus-visible{outline:3px solid var(--accent2);outline-offset:2px}
+input:focus-visible{outline:3px solid var(--accent2);outline-offset:0;border-color:var(--accent2)}